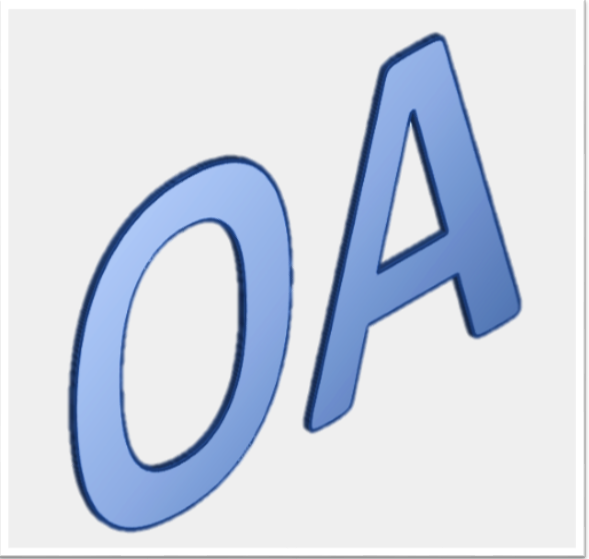
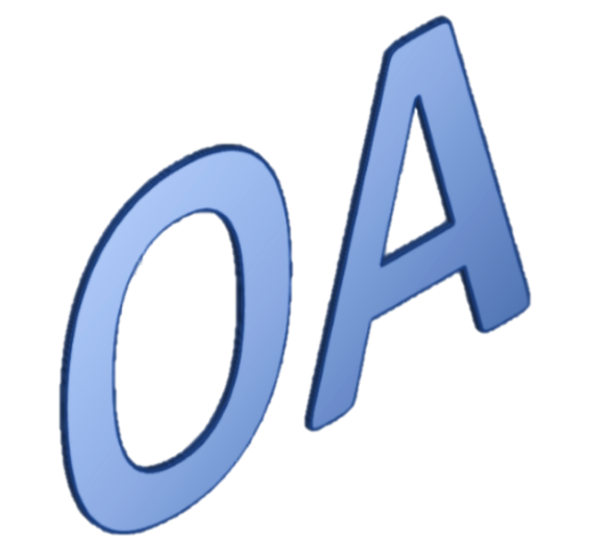
modified interface

diff --git a/index.html b/index.html
@@ -79,6 +79,9 @@
                         </div>
                     </div>
                 </div>
+                <div class="hero-image">
+                    <img src="img/obed_transp.png">
+                </div>
             </div>
         </div>
     </div>
@@ -528,13 +531,21 @@
                     <div class="footer-social">
                         <a href="tel://+233593124570" title="Call Me"><i class="fa fa-phone-alt"></i></a>
                         <a href="mailto:obedamoako92@gmail.com" title="Mail Me"><i class="fa fa-envelope"></i></a>
-                        <a href="https://twitter.com/obedamoako8" title="My Twitter"><i class="fab fa-twitter"></i></a>
-                        <a href="https://github.com/Obed101" title="Follow me on Github"><i
-                                class="fab fa-github"></i></a>
-                        <a href="https://wa.me/233274097985" title="WhatsApp"><i class="fab fa-whatsapp"></i></a>
-                        <!-- <a href=""><i class="fa fa-instagram"></i></a> -->
-                        <a href="https://linkedin.com/in/ericob3d" title="LinkedIn"><i
-                                class="fab fa-linkedin-in"></i></a>
+                        <a href="https://twitter.com/obedamoako8" title="My Twitter" target="_blank">
+                            <i class="fab fa-twitter"></i>
+                        </a>
+                        <a href="https://github.com/Obed101" title="Follow me on Github" target="_blank">
+                            <i class="fab fa-github"></i>
+                        </a>
+                        <a href="https://wa.me/233274097985" title="WhatsApp" target="_blank">
+                            <i class="fab fa-whatsapp"></i>
+                        </a>
+                        <a href="https://www.youtube.com/channel/UCHx1BQPf2cTXWVOTPUIFxVg" target="_blank">
+                            <i class="fab fa-youtube" title="Subscribe To My YouTube Channel"></i>
+                        </a>
+                        <a href="https://linkedin.com/in/ericob3d" title="LinkedIn" target="_blank">
+                            <i class="fab fa-linkedin-in"></i>
+                        </a>
                     </div>
                 </div>
             </div>

diff --git a/mail/contact.js b/mail/contact.js
@@ -48,17 +48,20 @@ $(function() {
           $("#success").html("<div class='alert alert-danger'>");
           $("#success > .alert-danger")
             .html(
-              "<button type='button' class='close' data-dismiss='alert' aria-hidden='true'>&times;"
+              `<button type='button' class='close' data-dismiss='alert' aria-hidden='true'>&times;`
             )
             .append("</button>");
           $("#success > .alert-danger").append(
             $("<strong>").html(
               "Sorry " +
                 name +
-                `, it seems there is an error.
+                `, I can see you want to send me some message about ${subject}. But
+it seems there is an error.
 If this continues, kindly <a style="color:blue" href='https://wa.me/233274097985'>
-Chat me on WhatsApp</a>
-Or call me on my number below`
+chat me on WhatsApp</a> or
+<a style="color:blue" href='mailto:obedamoako92@gmail.com?subject=
+${subject}&body=${message}'>submit via mail</a>,
+or call me on my number below`
             )
           );
           console.log("send not successful");

diff --git a/css/style.css b/css/style.css
@@ -225,13 +225,14 @@ a:focus {
 
 .hero .hero-image {
   position: relative;
-  text-align: right;
-  padding-right: 75px;
+  /* padding-right: 75px; */
+  /* right: 0; */
 }
 
 .hero .hero-image img {
   max-width: 60%;
   max-height: 60%;
+  border-radius: 100%;
 }
 
 .hero .hero-content {
@@ -799,7 +800,7 @@ a:focus {
 .set-list > div:hover {
   background-color: white;
   transform: scale(1.1);
-  box-shadow: #414141 0 4px 4px;
+  box-shadow: #414141 0 4px 10px;
 }
 
 /******** Portfolio ********/
